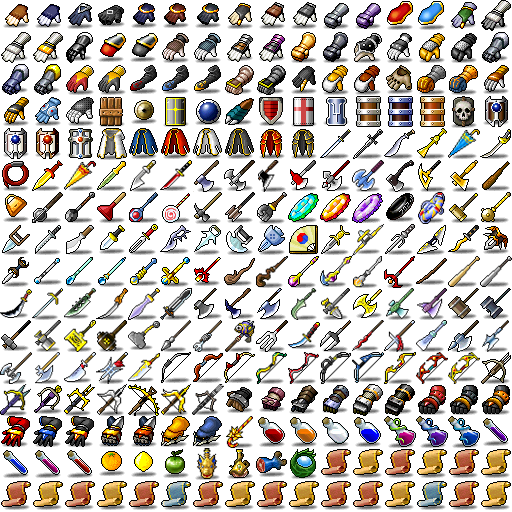
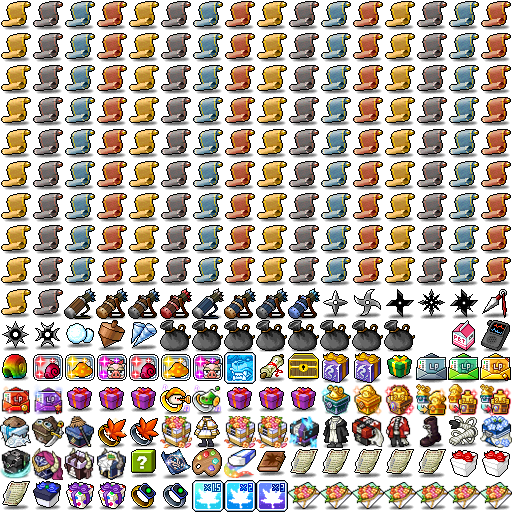
feat: item list from maplestory.io Classic World data, NiaDB kept as backup

diff --git a/src/exp_tracker/web/local.html b/src/exp_tracker/web/local.html
@@ -18,7 +18,7 @@
   </ul>
   <p class="about-contact"><strong>Questions or ideas?</strong> Message me on Discord, Twitch, Twitter, Instagram or GitHub. I'm <a href="https://cabbagecanfly.com" target="_blank" rel="noopener noreferrer"><b>@cabbagecanfly</b></a> everywhere, so use whichever works for you.</p>
   <p>See more on <a href="https://github.com/cabbagecanfly/msxp" target="_blank" rel="noopener noreferrer">GitHub</a>.</p>
-  <p class="about-credit">Item names and icons from <a href="https://meowdb.com" target="_blank" rel="noopener noreferrer">NiaDB (meowdb.com)</a> · Not affiliated with <a href="https://www.nexon.com/maplestory/" target="_blank" rel="noopener noreferrer">Official MapleStory</a></p>
+  <p class="about-credit">Item names and icons from <a href="https://maplestory.io" target="_blank" rel="noopener noreferrer">maplestory.io</a> · Not affiliated with <a href="https://www.nexon.com/maplestory/" target="_blank" rel="noopener noreferrer">Official MapleStory</a></p>
 </div>
 
 <section class="board player-board" aria-labelledby="player-name"><header class="board-header"><h1 id="player-name">Your character</h1><span id="player-job" class="player-job" hidden><img id="player-job-icon" width="32" height="32" alt=""><span id="player-job-name"></span></span><span class="source-label">On this device</span></header>
@@ -98,5 +98,5 @@
   <ul id="items-popup-list" class="pickup-items items-popup-list" aria-label="Items picked up"></ul><p id="items-popup-note" class="items-popup-note"></p>
 </div>
 <div id="confirm" class="about confirm" popover role="alertdialog" aria-labelledby="confirm-title" aria-describedby="confirm-text"><h2 id="confirm-title"></h2><p id="confirm-text"></p><div class="confirm-actions"><button id="confirm-no" type="button" popovertarget="confirm" popovertargetaction="hide">Cancel</button><button id="confirm-yes" type="button" class="danger"></button></div></div>
-<footer class="site-footer"><span><a href="https://github.com/cabbagecanfly" target="_blank" rel="noopener noreferrer">@cabbagecanfly</a> everywhere · Item data from <a href="https://meowdb.com" target="_blank" rel="noopener noreferrer">NiaDB</a> · Not affiliated with <a href="https://www.nexon.com/maplestory/" target="_blank" rel="noopener noreferrer">Official MapleStory</a> · <a href="https://github.com/cabbagecanfly/msxp/issues" target="_blank" rel="noopener noreferrer">Report an issue</a></span><label>Times in <select id="timezone" aria-label="Time zone"></select></label></footer>
+<footer class="site-footer"><span><a href="https://github.com/cabbagecanfly" target="_blank" rel="noopener noreferrer">@cabbagecanfly</a> everywhere · Item data from <a href="https://maplestory.io" target="_blank" rel="noopener noreferrer">maplestory.io</a> · Not affiliated with <a href="https://www.nexon.com/maplestory/" target="_blank" rel="noopener noreferrer">Official MapleStory</a> · <a href="https://github.com/cabbagecanfly/msxp/issues" target="_blank" rel="noopener noreferrer">Report an issue</a></span><label>Times in <select id="timezone" aria-label="Time zone"></select></label></footer>
 </main></body></html>

diff --git a/src/exp_tracker/web/local/pickups.js b/src/exp_tracker/web/local/pickups.js
@@ -337,15 +337,23 @@ export const tabOf = (text) => {
 export function resolveItem(items, {name, cut, tab}) {
   const norm = (text) => text.toLowerCase().replace(/[^a-z0-9]/g, ''), want = norm(name);
   if (!want) return null;
-  let best = null, score = Infinity, second = Infinity;
+  let best = null, score = Infinity, second = Infinity, tied = [];
   for (const item of items) {
     if (tab && item.tab !== tab) continue;
     const full = norm(item.name), d = editDistance(want, cut ? full.slice(0, want.length) : full);
-    if (d < score) { best = item; second = score; score = d; } else if (d < second) second = d;
+    if (d < score) { best = item; second = score; score = d; tied = [item]; } else if (d === score) { second = d; tied.push(item); } else if (d < second) second = d;
+  }
+  if (!best) return null;
+  // A tie between exactly one Etc item (monster drops, ores) and Use items only goes to the Etc item, the far
+  // likelier pickup (measured: a name cut to "Orange Mushro..." also starts transformation and package Use
+  // items). Any other tie, Equip included ("Blue Mushroom" Cap or Hat), is no guess.
+  if (second === score) {
+    const etc = tied.filter((item) => item.tab === 'Etc');
+    if (etc.length !== 1 || tied.some((item) => item.tab !== 'Etc' && item.tab !== 'Use')) return null;
+    best = etc[0];
   }
   // Up to a quarter of the letters may be misread; up to a third ("Syulshy Liguld") only when no other
   // item comes within two edits of it (measured live: thin strokes garble several letters of a name).
-  if (!best || second === score) return null;
   if (want.length < 4) return score === 0 ? best : null;  // "Si" is not "Sai".
   return score <= Math.max(1, Math.floor(want.length / 4)) || (score <= Math.floor(want.length / 3) && second - score >= 2) ? best : null;
 }

diff --git a/tools/build_local_items.py b/tools/build_local_items.py
@@ -1,8 +1,15 @@
-"""Build the monster-drop item table and icon sheets for the /local pickup tracker.
+"""Build the item table and icon sheets for the /local pickup tracker.
 
-    python tools/build_local_items.py [--out src/exp_tracker/web/local/items] [--delay 10] [--item-pages]
+    python tools/build_local_items.py --source maplestory-io [--delay 2.7]
+    python tools/build_local_items.py --source niadb [--delay 10] [--item-pages]
 
-Source: NiaMeowDB's MapleStory Classic monster pages. Each drop lists the Classic item name (what
+maplestory-io (used): maplestory.io's copy of the MapleStory Classic World client data (region MCW, version
+1): every item's Classic name, category and icon, from one item list and one icon request per item. It
+matched all 924 items of the NiaDB build by game ID and name (checked 2026-11-11). The client data has no
+drop tables, so the table holds every non-cash Equip, Use and Etc item. Icons are kept in --icon-cache, so
+an interrupted run resumes. maplestory.io states no request limits; MSIO_GAP paces a full run near 1.5 h.
+
+niadb (kept as a backup): NiaMeowDB's MapleStory Classic monster pages. Each drop lists the Classic item name (what
 pickup messages show) and an icon named by the game item ID; the ID's first digit is the inventory
 tab (1 Equip, 2 Use, 3 Setup, 4 Etc). Only items monsters drop are included. Requests go one at a
 time, at least MIN_GAP seconds apart (the site's tool rules, https://meowdb.com/reuse#tool-rules), and
@@ -39,11 +46,13 @@ CELL, PER_ROW, PER_SHEET = 32, 16, 256  # 32x32 icons on a 16x16 grid: 256 icons
 TABS = {'1': 'Equip', '2': 'Use', '3': 'Setup', '4': 'Etc'}
 
 
-MIN_GAP = 10  # Seconds between any two requests, icons included.
+MIN_GAP = 10  # Seconds between any two NiaDB requests, icons included.
+MSIO = 'https://maplestory.io/api/MCW/1'
+MSIO_GAP = 2.5  # Seconds between maplestory.io requests (no stated limit; ~2,000 icons in about 1.5 h at 2.7).
 
 
-def fetch(url, delay):
-    time.sleep(max(delay, MIN_GAP))
+def fetch(url, delay, floor=MIN_GAP):
+    time.sleep(max(delay, floor))
     try:
         # Compressed: an item page is ~280 KB as HTML (measured), several times smaller gzipped.
         with urlopen(Request(url, headers={'User-Agent': AGENT, 'Accept-Encoding': 'gzip'}), timeout=60) as response:
@@ -155,15 +164,63 @@ def build(out, delay, icon_delay, pages=False, cache=None):
     print(f'{len(rows)} items from {len(monsters)} monsters, {index + 1} icon sheets in {out}')
 
 
+def msio_items(listing):
+    """The items players can pick up: non-cash Equip, Use and Etc, not hair, faces or skins. Ordered Etc,
+    Use, Equip (then by ID), so common drops share the first icon sheets and a browser loads few sheets."""
+    order = {'Etc': 0, 'Use': 1, 'Equip': 2}
+    keep = [x for x in listing if not x.get('isCash') and x['typeInfo']['overallCategory'] in order
+            and x['typeInfo'].get('subCategory') not in ('Hair', 'Face', 'Skin') and str(x['id'])[0] in TABS and x.get('name', '').strip()]
+    # One entry per name and tab: messages show only the name, and two equal names (Blue Potion 2000003 and
+    # 2000008) made the matcher refuse both. The lowest ID is the regular item.
+    unique = {}
+    for x in sorted(keep, key=lambda x: x['id']): unique.setdefault((x['name'].strip().lower(), str(x['id'])[0]), x)
+    return sorted(unique.values(), key=lambda x: (order[x['typeInfo']['overallCategory']], x['id']))
+
+
+def build_msio(out, delay, icon_cache):
+    listing = json.loads(fetch(f'{MSIO}/item?startPosition=0&count=100000', 0, MSIO_GAP))
+    items = msio_items(listing)
+    icon_cache.mkdir(parents=True, exist_ok=True)
+    out.mkdir(parents=True, exist_ok=True)
+    rows, sheet, index, fetched = [], None, 0, 0
+    for n, x in enumerate(items):
+        if n % PER_SHEET == 0:
+            if sheet: sheet.save(out / f'icons-{index}.png', optimize=True); index += 1
+            sheet = Image.new('RGBA', (CELL * PER_ROW, CELL * PER_ROW), (0, 0, 0, 0))
+        gid, cell = x['id'], n % PER_SHEET
+        row, cached = [x['name'].strip(), TABS[str(gid)[0]], gid, []], icon_cache / f'{gid}.png'
+        try:
+            if not cached.exists():
+                cached.write_bytes(fetch(f'{MSIO}/item/{gid}/icon', delay, MSIO_GAP)); fetched += 1
+            icon = Image.open(cached).convert('RGBA')
+            icon.thumbnail((CELL, CELL))
+            sheet.paste(icon, ((cell % PER_ROW) * CELL + (CELL - icon.width) // 2, (cell // PER_ROW) * CELL + (CELL - icon.height) // 2))
+            row += [index, cell]
+        except Exception as error:  # A missing icon only means a text-only entry; a refusal stops the run (SystemExit).
+            print(f'no icon for {gid} {x["name"]}: {error}')
+        rows.append(row)
+        if (n + 1) % 100 == 0: print(f'{n + 1}/{len(items)} items, {fetched} icons fetched this run', flush=True)
+    if sheet: sheet.save(out / f'icons-{index}.png', optimize=True)
+    for old in out.glob('icons-*.png'):  # Sheets left over from a larger earlier build.
+        if int(old.stem.split('-')[1]) > index: old.unlink()
+    data = {'source': 'maplestory.io MapleStory Classic World client data (MCW 1)', 'cell': CELL, 'perRow': PER_ROW,
+            'items': sorted(rows, key=lambda r: r[0].lower())}  # [name, tab, game ID, [monsters], sheet?, cell?]
+    (out / 'items.json').write_text(json.dumps(data, separators=(',', ':'), ensure_ascii=False), encoding='utf-8')
+    print(f'{len(rows)} items, {index + 1} icon sheets in {out}')
+
+
 def main(argv=None):
     cli = argparse.ArgumentParser(description=__doc__, formatter_class=argparse.RawDescriptionHelpFormatter)
+    cli.add_argument('--source', choices=['maplestory-io', 'niadb'], default='maplestory-io')
     cli.add_argument('--out', type=Path, default=OUT)
-    cli.add_argument('--delay', type=float, default=MIN_GAP, help=f'Seconds between requests (at least {MIN_GAP})')
+    cli.add_argument('--delay', type=float, default=None, help=f'Seconds between requests (at least {MSIO_GAP} for maplestory-io, {MIN_GAP} for niadb)')
     cli.add_argument('--icon-delay', type=float, default=MIN_GAP, help=f'Seconds between icon requests (at least {MIN_GAP})')
     cli.add_argument('--item-pages', action='store_true', help='Also read every item page (about 4,300) for monster drops')
-    cli.add_argument('--cache', type=Path, default=Path(tempfile.gettempdir()) / 'msxp-item-pages.jsonl', help='Item pages already read (resumes a run)')
+    cli.add_argument('--cache', type=Path, default=Path(tempfile.gettempdir()) / 'msxp-item-pages.jsonl', help='NiaDB item pages already read (resumes a run)')
+    cli.add_argument('--icon-cache', type=Path, default=Path(tempfile.gettempdir()) / 'msxp-msio-icons', help='maplestory.io icons already fetched (resumes a run)')
     args = cli.parse_args(argv)
-    build(args.out, args.delay, args.icon_delay, args.item_pages, args.cache)
+    if args.source == 'maplestory-io': build_msio(args.out, args.delay if args.delay is not None else 2.7, args.icon_cache)
+    else: build(args.out, args.delay if args.delay is not None else MIN_GAP, args.icon_delay, args.item_pages, args.cache)
     return 0
 
 

diff --git a/tests/test_build_local_items.py b/tests/test_build_local_items.py
@@ -48,3 +48,12 @@ def test_fetch_asks_for_gzip_and_unpacks_it(monkeypatch):
     monkeypatch.setattr(b, 'urlopen', lambda request, timeout: (asked.append(request.get_header('Accept-encoding')), Response())[1])
     assert b.fetch('https://example.invalid/item-db/1', 0) == b'<html>page</html>'
     assert asked == ['gzip']
+
+
+def test_msio_items_keep_pickups_in_sheet_order():
+    import tools.build_local_items as b
+    row = lambda gid, top, sub, cash=False, name='X': {'id': gid, 'name': name, 'isCash': cash, 'typeInfo': {'overallCategory': top, 'subCategory': sub}}
+    listing = [row(1302000, 'Equip', 'One-Handed Sword'), row(30000, 'Equip', 'Hair'), row(2000000, 'Use', 'Potion'),
+               row(4000019, 'Etc', 'Monster Drop'), row(5000000, 'Cash', 'Pet', cash=True), row(1002186, 'Equip', 'Hat', cash=True),
+               row(3010000, 'Setup', 'Chair'), row(4000020, 'Etc', 'Monster Drop', name=' '), row(2000008, 'Use', 'Potion')]  # Same name as 2000000.
+    assert [x['id'] for x in b.msio_items(listing)] == [4000019, 2000000, 1302000]  # Etc, Use, Equip; no hair, cash, setup or nameless.

diff --git a/docs/local-tracker.md b/docs/local-tracker.md
@@ -222,7 +222,9 @@ located (overlays, third-party trackers, scaled layouts); manual calibration is 
 **Track pickups** (off by default, remembered) reads the game's pickup messages while tracking and
 keeps meso and item pickups in IndexedDB (`pickups` store, 24 hours like readings; included in the
 JSON export and deleted with the character). EXP messages are read but never kept: EXP comes only
-from the EXP bar. Items are kept only when the name matches the drop list; unread messages are
+from the EXP bar. Items are kept only when the name matches the item list (`local/items/`, built by `tools/build_local_items.py`
+from maplestory.io's copy of the Classic World client data: 1,978 non-cash Equip, Use and Etc items, one per name;
+the client data has no drop tables; the NiaDB monster-drop build is kept as a backup source); unread messages are
 dropped. The Pickups panel shows mesos per hour (see Live rate), mesos in the last 24 hours, and the items picked up with their icons. With `?debug`
 a log lists every message as read. Not yet in the OBS overlay; the learned message font is saved
 (setting `pickupFont`; the older `messageFont` held shapes misread before word alignment and is ignored), one
